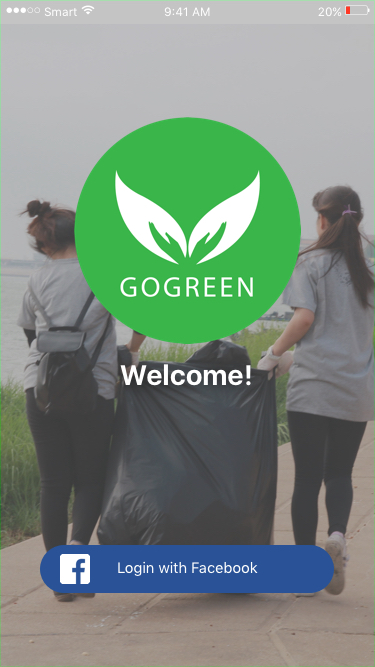
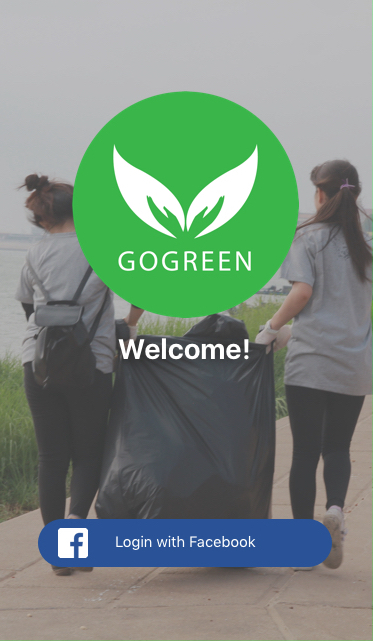
config root page

diff --git a/src/app/app.component.ts b/src/app/app.component.ts
@@ -3,8 +3,8 @@ import { Platform } from 'ionic-angular';
 import { StatusBar } from '@ionic-native/status-bar';
 import { SplashScreen } from '@ionic-native/splash-screen';
 
-// import { Login } from '../pages/login/login';
-// import { HomePage } from '../pages/home/home';
+import { LoginPage } from '../pages/login/login';
+import { Storage } from '@ionic/storage';
 import { TabsPage } from '../pages/tabs/tabs';
 
 @Component({
@@ -12,12 +12,21 @@ import { TabsPage } from '../pages/tabs/tabs';
 })
 
 export class MyApp {
-  rootPage:any = TabsPage;
+  rootPage:any = LoginPage;
+  hasRoot: any = false;
 
-  constructor(platform: Platform, statusBar: StatusBar, splashScreen: SplashScreen) {
+  constructor(platform: Platform, private storage: Storage, statusBar: StatusBar, splashScreen: SplashScreen, ) {
     platform.ready().then(() => {
       statusBar.styleDefault();
       splashScreen.hide();
+      this.storage.get('isLogged').then(logged => {
+        if (logged) {
+           this.rootPage = TabsPage;
+        }
+        this.hasRoot = true;
+      });
     });
+
+
   }
 }

diff --git a/src/pages/login/login.ts b/src/pages/login/login.ts
@@ -1,7 +1,8 @@
 import { Component } from '@angular/core';
 import { NavController } from 'ionic-angular';
 import { Facebook } from '@ionic-native/facebook';
-import { HomePage } from '../home/home';
+import { TabsPage } from '../tabs/tabs';
+import { Storage } from '@ionic/storage';
 
 @Component({
   selector: 'page-login',
@@ -9,17 +10,14 @@ import { HomePage } from '../home/home';
 })
 export class LoginPage {
 
-  constructor(public navCtrl: NavController, private facebook: Facebook) {
+  constructor(public navCtrl: NavController, private facebook: Facebook, private storage: Storage) {
   }
-
-  ionViewDidLoad() {
-    console.log('ionViewDidLoad Login');
-  }
-
+  
   facebookLogin(){
     this.facebook.login(['email']).then( (response) => {
       console.log('response : ', response);
-      this.navCtrl.push(HomePage, {}, {animate: false});
+      this.storage.set('isLogged', true);
+      this.navCtrl.push(TabsPage, {}, {animate: false});
     }).catch((error) => {
       console.log(error)
     });

diff --git a/src/pages/login/login.scss b/src/pages/login/login.scss
@@ -1,26 +1,29 @@
 page-login {
   .home {
-    background: url('../../assets/home/backgroud.png');
+    background: url('../assets/home/backgroud.png') fixed center no-repeat;
+    background-size: cover;
   }
 
   .logo {
-    padding-left: 20%;
-    padding-top: 30%;
-    width: 85%;
+    padding-left: 19%;
+    padding-top: 20%;
+    max-width: 82%;
   }
 
   .welcome-text {
     color: white;
     font-weight: bold;
-    font-size: 30px;
+    font-size: 8vw;
     text-align: center;
-    padding-top: 3%;
-    padding-bottom: 41%;
+    padding-top: 2%;
   }
 
   .login{
-    background: url("../../assets/home/login.png") center no-repeat;
-    width: 100%;
-    height: 9%;
+    background: url("../assets/home/login.png") center no-repeat;
+    background-size: contain;
+    width: 85%;
+    height: 8%;
+    margin-left: 7%;
+    margin-top: 41%;
   }
 }

diff --git a/src/app/app.module.ts b/src/app/app.module.ts
@@ -8,6 +8,7 @@ import { Facebook } from '@ionic-native/facebook';
 import { GoogleMaps } from '../providers/google-maps';
 import { Camera } from '../providers/camera';
 import { Geolocation } from '@ionic-native/geolocation'
+import { IonicStorageModule } from '@ionic/storage';
 
 import { MyApp } from './app.component';
 import { HomePage } from '../pages/home/home';
@@ -38,7 +39,8 @@ import { PhotoPage } from '../pages/photo/photo';
   imports: [
     BrowserModule,
     HttpModule,
-    IonicModule.forRoot(MyApp)
+    IonicModule.forRoot(MyApp),
+    IonicStorageModule.forRoot()
   ],
   bootstrap: [IonicApp],
   entryComponents: [

diff --git a/src/pages/tabs/tabs.ts b/src/pages/tabs/tabs.ts
@@ -10,7 +10,6 @@ import { EventPage } from '../event/event';
 })
 export class TabsPage {
   tabHome: any = HomePage;
-  // tabPin: any = PinPage;
   tabProfile: any = ProfilePage;
   tabEvent: any = EventPage;
 

diff --git a/src/pages/login/login.html b/src/pages/login/login.html
@@ -4,6 +4,6 @@
     Welcome!
   </h3>
 
-  <button ion-button center (click)="facebookLogin()" class='login'>
-  </button>
+  <div center (click)="facebookLogin()" class='login'>
+  </div>
 </ion-content>

diff --git a/src/app/app.html b/src/app/app.html
@@ -1,1 +1,1 @@
-<ion-nav [root]="rootPage"></ion-nav>
+<ion-nav *ngIf="hasRoot" [root]="rootPage"></ion-nav>
